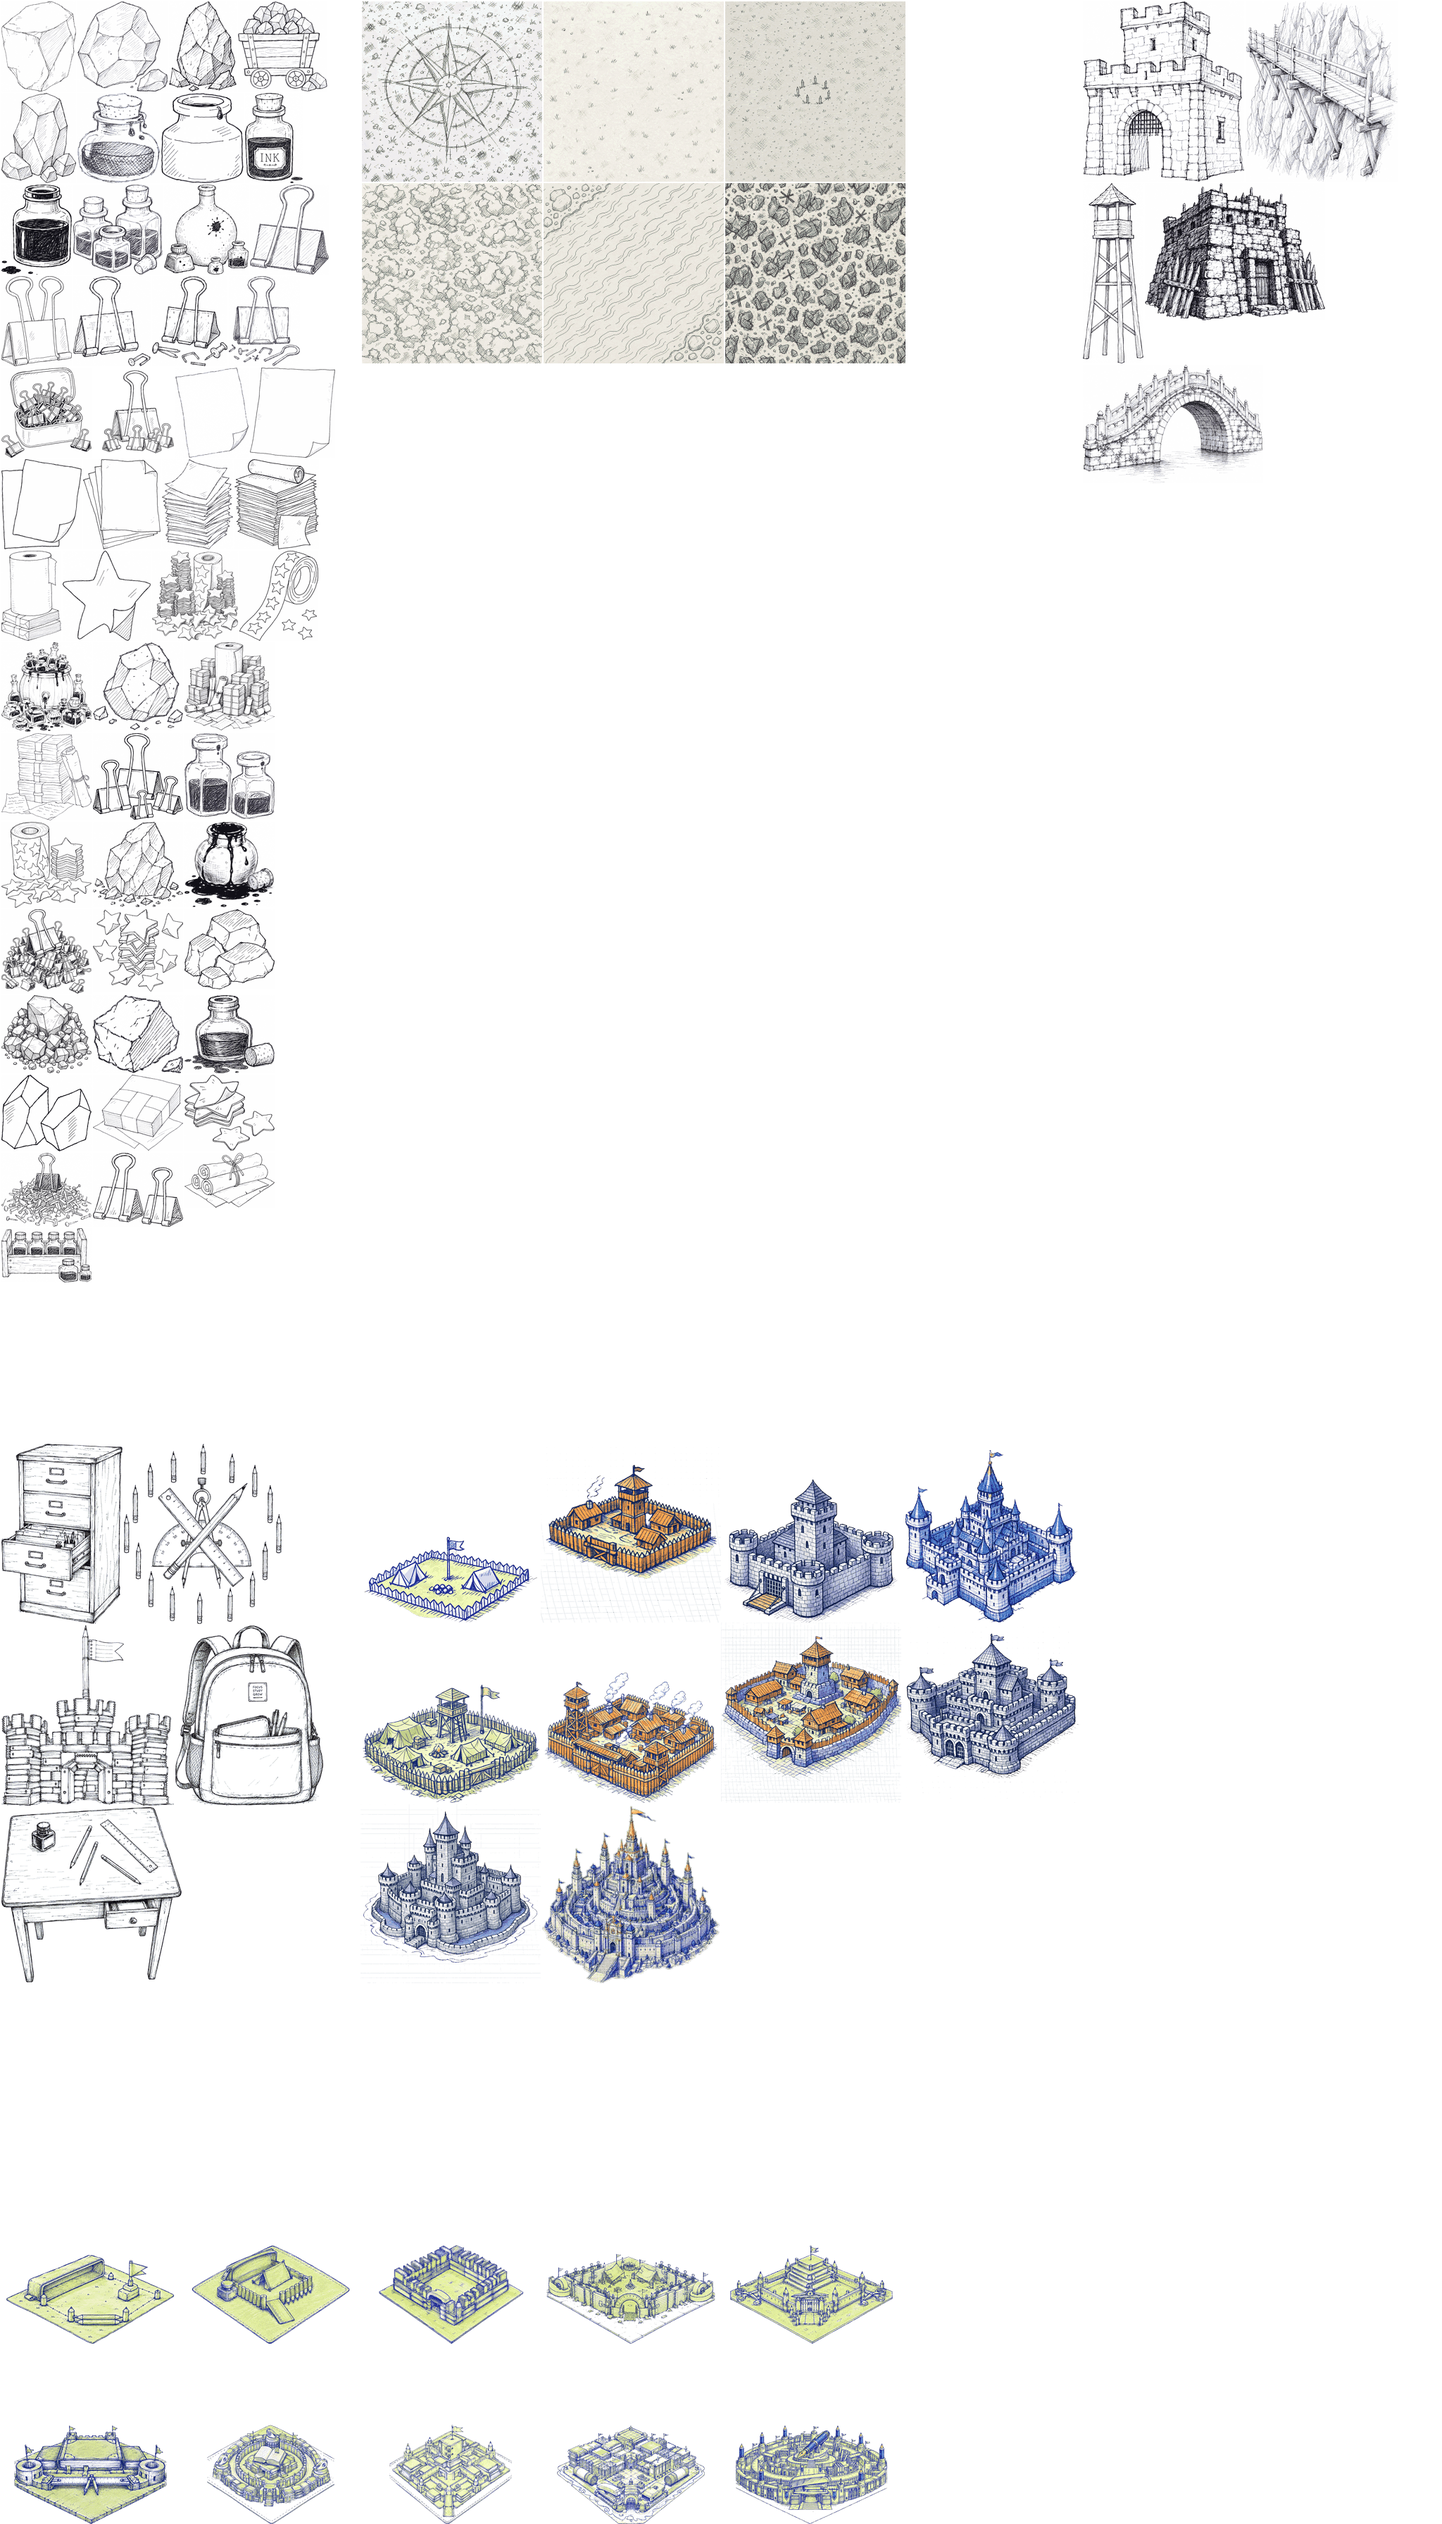
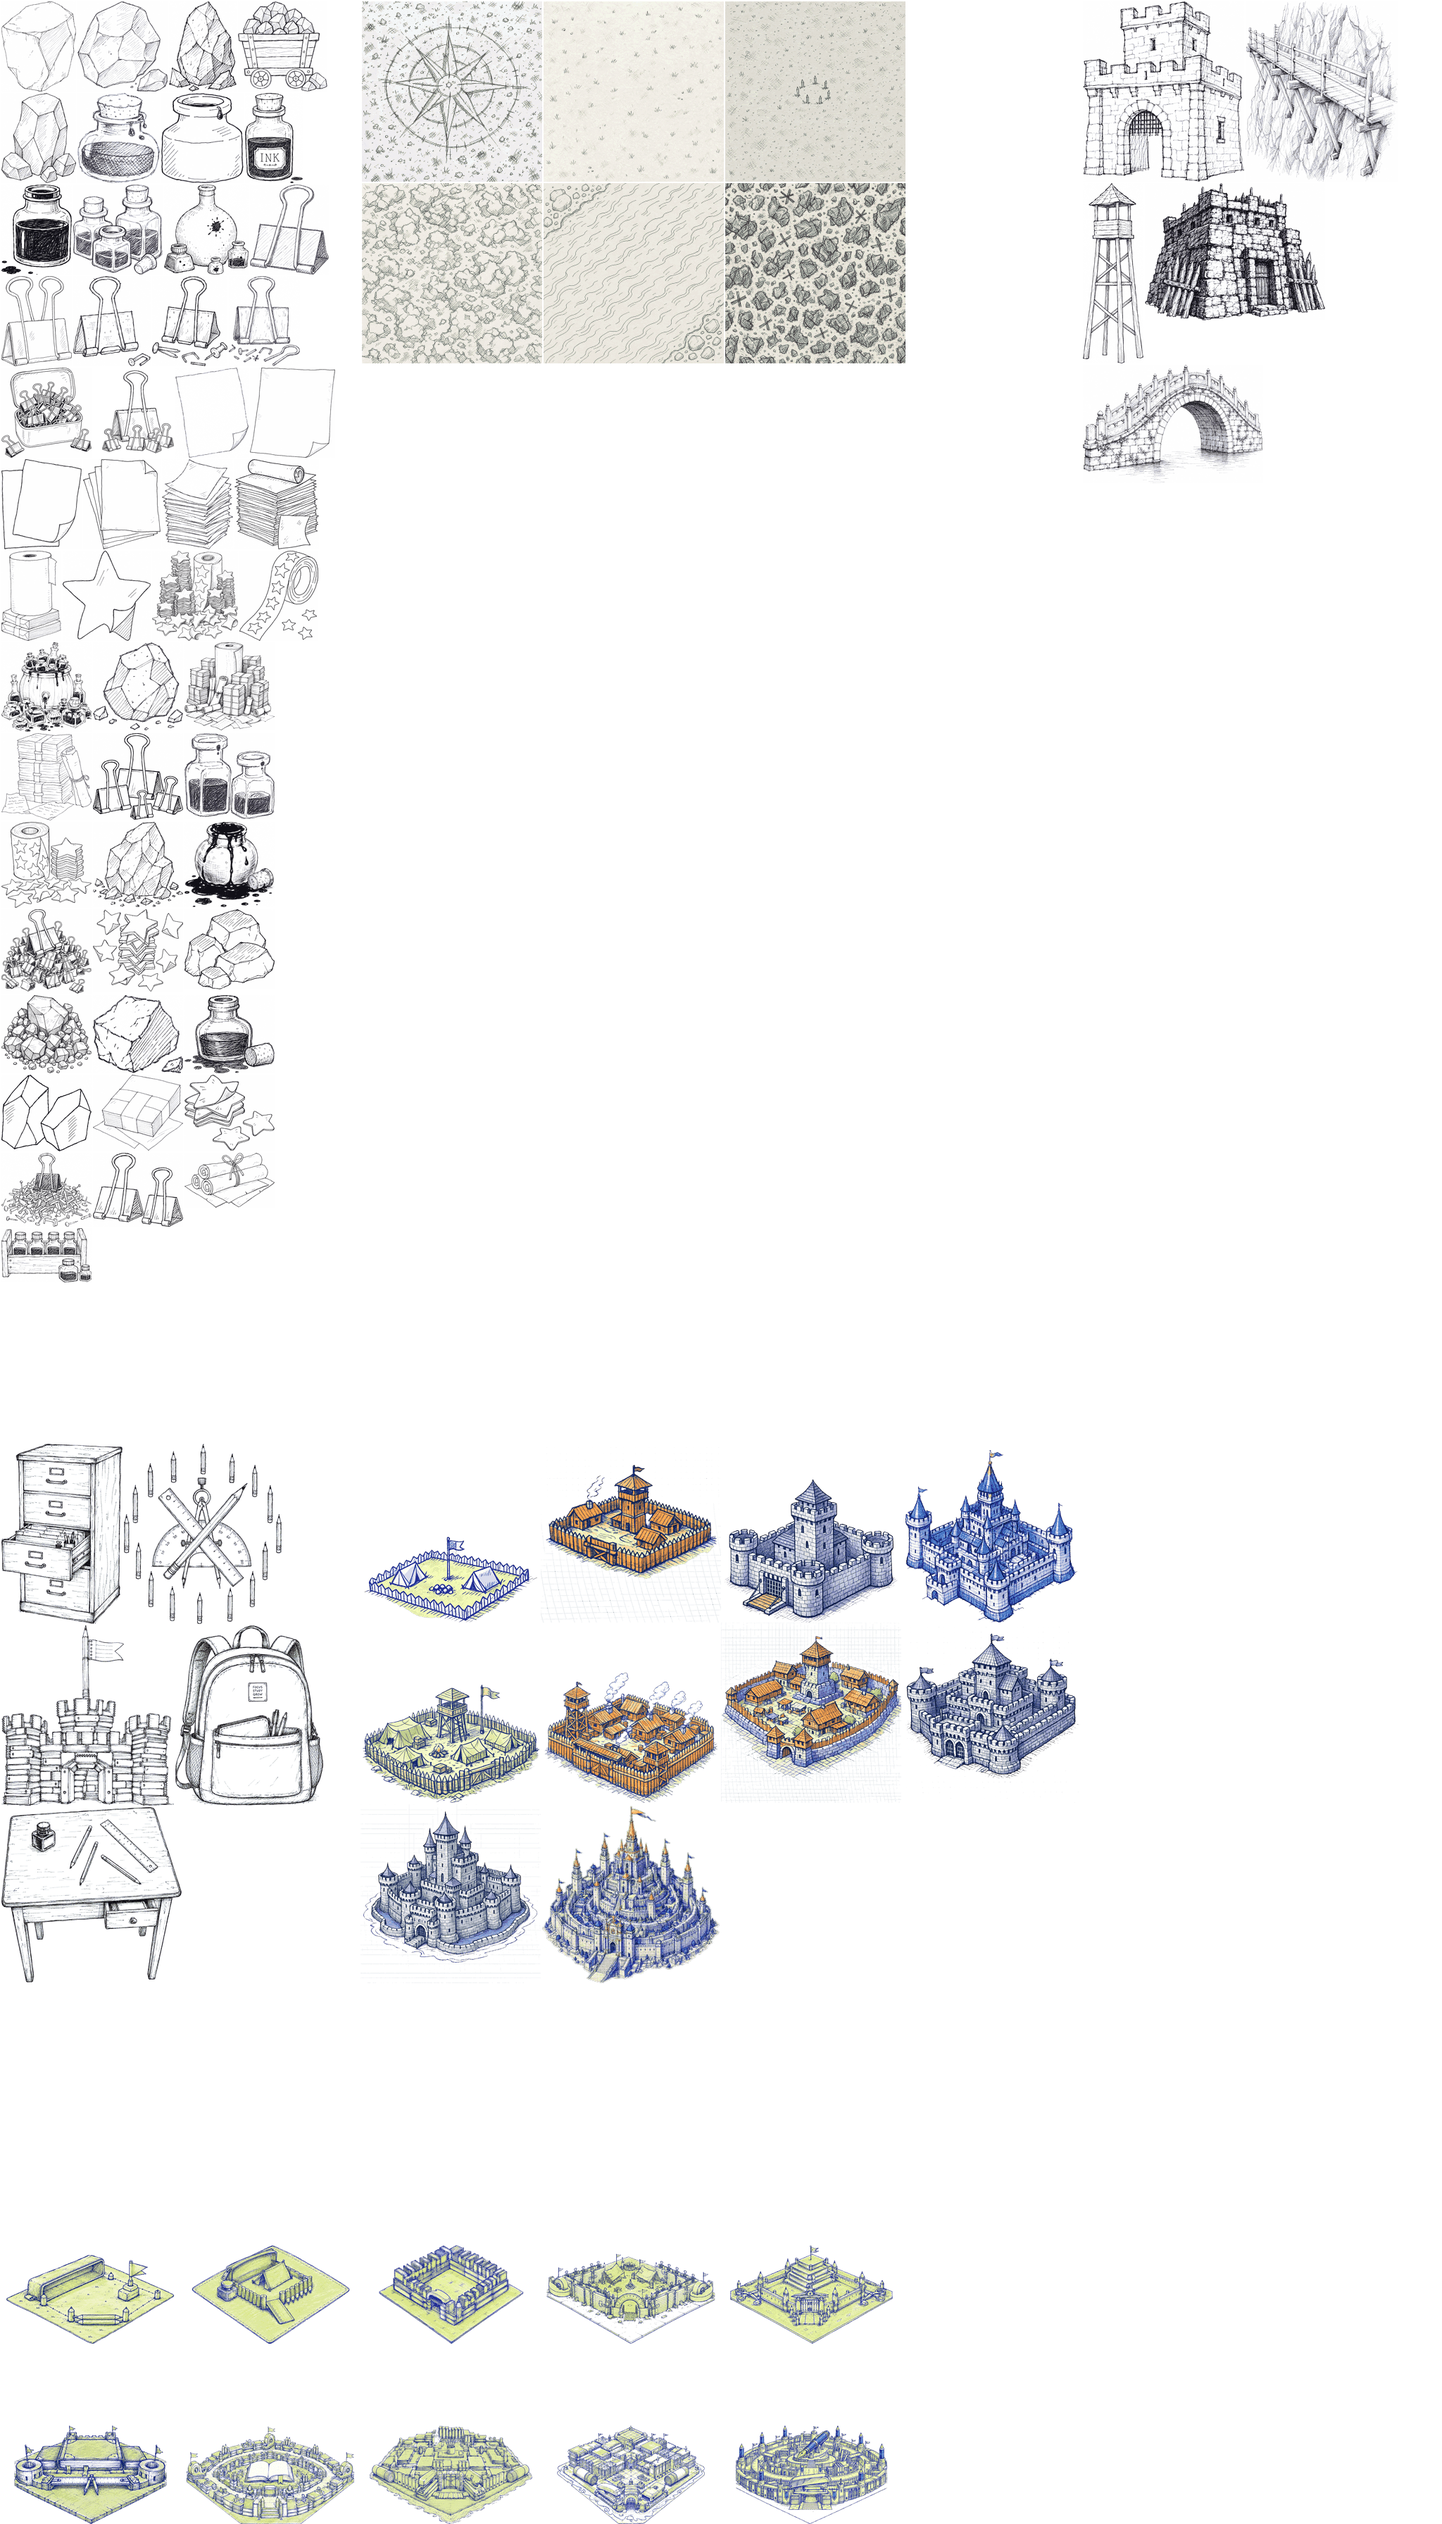
art(slg): redraw playerbase Lv.7/8 art, close out the plot-width gap
Same-day follow-up to 0c64ce2a. User regenerated Lv.7/Lv.8 using the v2
(concrete edge-anchor) prompts logged in design/product/player-base-image-prompts.md
- worked on the first try: 0e5d40d6->l7 (contentWidthFrac 0.9375, exactly full)
and 4d95d1b3->l8 (0.91), both a clear jump over the old art (0.68/0.71).

All 10 player-base levels now sit at contentWidthFrac >= 0.82 (was as low as
0.66 this morning) - the plot-width underfill opened at the start of today's
work is fully closed, no known-short levels remain. Verified via the same
offline geometry-overlay technique as the earlier fixes today (reproduce
citySpriteTiles/cityPlotMaskPoints, overlay onto the real packed atlas
pixels) - still no live in-game screenshot, blocked by the no-
preserveDrawingBuffer WebGL canvas issue noted in prior commits.

Also swept the old replaced art (445aa377, 8608ad46) and the long-dangling
unused 11th candidate (fbb0769b, flagged as spare back on 2026-08-03 but
never actually cleaned up) into art/leftover/.

Changed region(s): [[0.125, 0.9375, 0.375, 1.0]]

diff --git a/design/product/player-base-image-prompts.md b/design/product/player-base-image-prompts.md
@@ -419,3 +419,16 @@ flat — the two bastions are the widest points of the entire image.
 ```
 
 在新图落地前，`playerbase_l7.png`/`playerbase_l8.png` 保持现状（`445aa377`/`8608ad46`），比旧图差不到哪去，先不空着。
+
+### 2026-08-08（同日第三轮）：Lv.7/8 v2 prompt 一次命中，10 张全部达标
+
+用户按上面 v2 prompt 重出了两张（`0e5d40d6`→Lv.7、`4d95d1b3`→Lv.8），离线几何核对：
+
+| 候选 | 目标等级 | contentWidthFrac（满宽=0.9375） | 结论 |
+|---|---|---|---|
+| `0e5d40d6` | Lv.7 | 0.9375（**满宽**） | 采用 |
+| `4d95d1b3` | Lv.8 | 0.91 | 采用 |
+
+"具体锚点"套路（远端插旗子/让物体贴边）比抽象宽高比数字有效，这次一次成功。已改名覆盖 `playerbase_l7/8.png`，重跑 `pack_playerbase_atlas.js` + `patchMergedAtlas.js` 入库；被替换的旧图（`445aa377`/`8608ad46`）连同确认再无用途的 11th 备用图（`fbb0769b`，2026-08-03 就已标注不采用，一直没清理）一并移入 `art/leftover/`。
+
+**至此 10 张玩家基地图全部达到"地台顶到 3×3 菱形边界"的构图要求**（`contentWidthFrac`：Lv.1 0.94 / Lv.2 0.89 / Lv.3 0.82 / Lv.4 0.94 / Lv.5 0.91 / Lv.6 0.85 / Lv.7 0.94 / Lv.8 0.91 / Lv.9 0.83 / Lv.10 0.84，无一低于 0.82），2026-08-08 当天开的这个坑到此收口。
